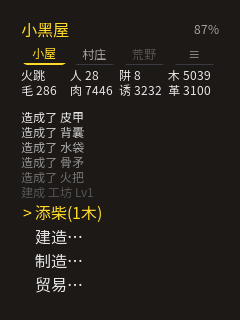
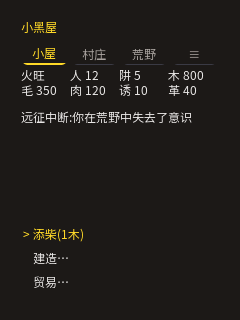
docs: README 截图全量刷新——反映字库合并/图例双列/色弱纹样/真实事件与战斗画面
富裕档轮播(主页/建造/村庄/贸易/设置/事件/确认)+ SIM_WILD 实景(远征地图含
图例与三地形纹样、洞穴地点页)+ 12 步走位逼出的真实遭遇战。事件截图首次为
M6 真内容(墙外动静);06 图注 废村→潮湿洞穴。SIM_WILD 钩子水量 8→30(长走位)。

diff --git a/main/darkroom_app.c b/main/darkroom_app.c
@@ -2621,10 +2621,10 @@ void darkroom_app_stop(void) {
 // 战斗页截图与断言(SIM_WILD)。
 void dr_debug_set_wild(uint8_t x, uint8_t y) {
     s.game.in_wilderness = 1;
-    s.game.food = 8; s.game.water = 8;
+    s.game.food = 30; s.game.water = 30;   // 长走位截图用(战斗触发需多步)
     s.game.hero_hp = s.game.hero_hp_max = 10;
     s.game.hero_x = x; s.game.hero_y = y;
-    s.game.res[DR_RES_FOOD] = 20;
+    s.game.res[DR_RES_FOOD] = 40;
     // 点亮主角周围 9×9(纹样/地形截图验证需要视野内有内容)
     for (int dy = -4; dy <= 4; dy++)
         for (int dx = -4; dx <= 4; dx++) {
